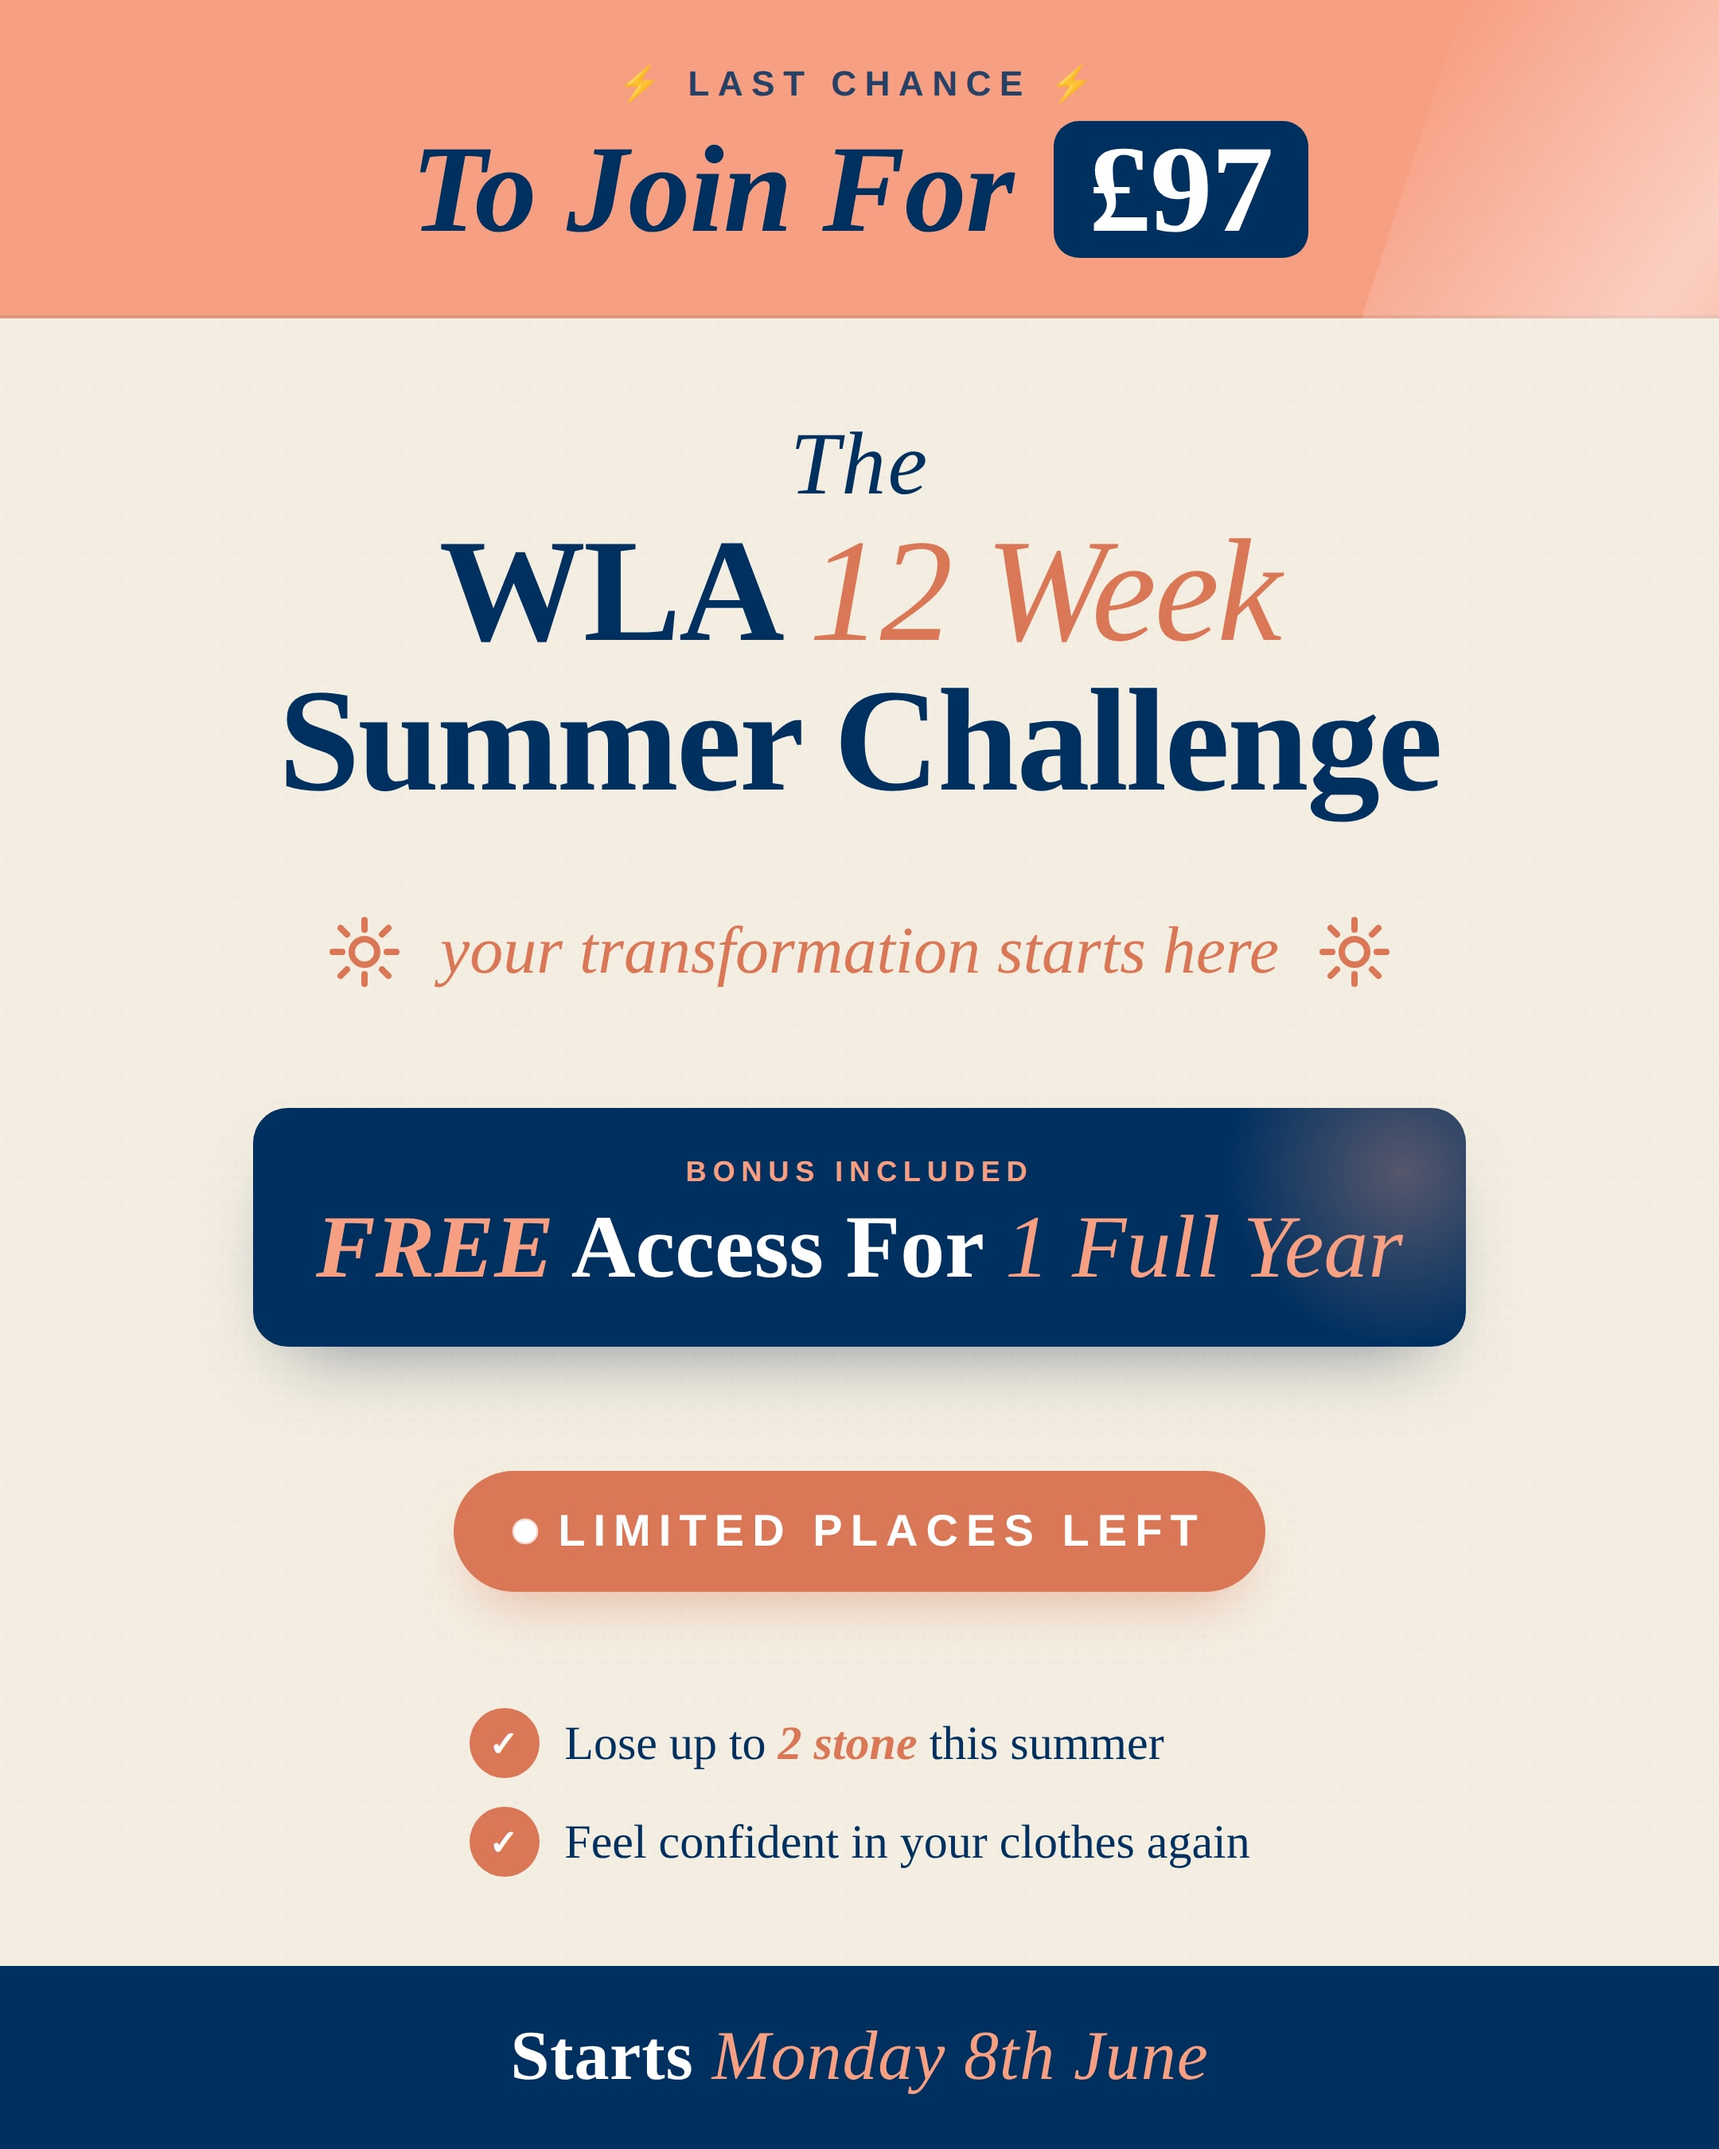
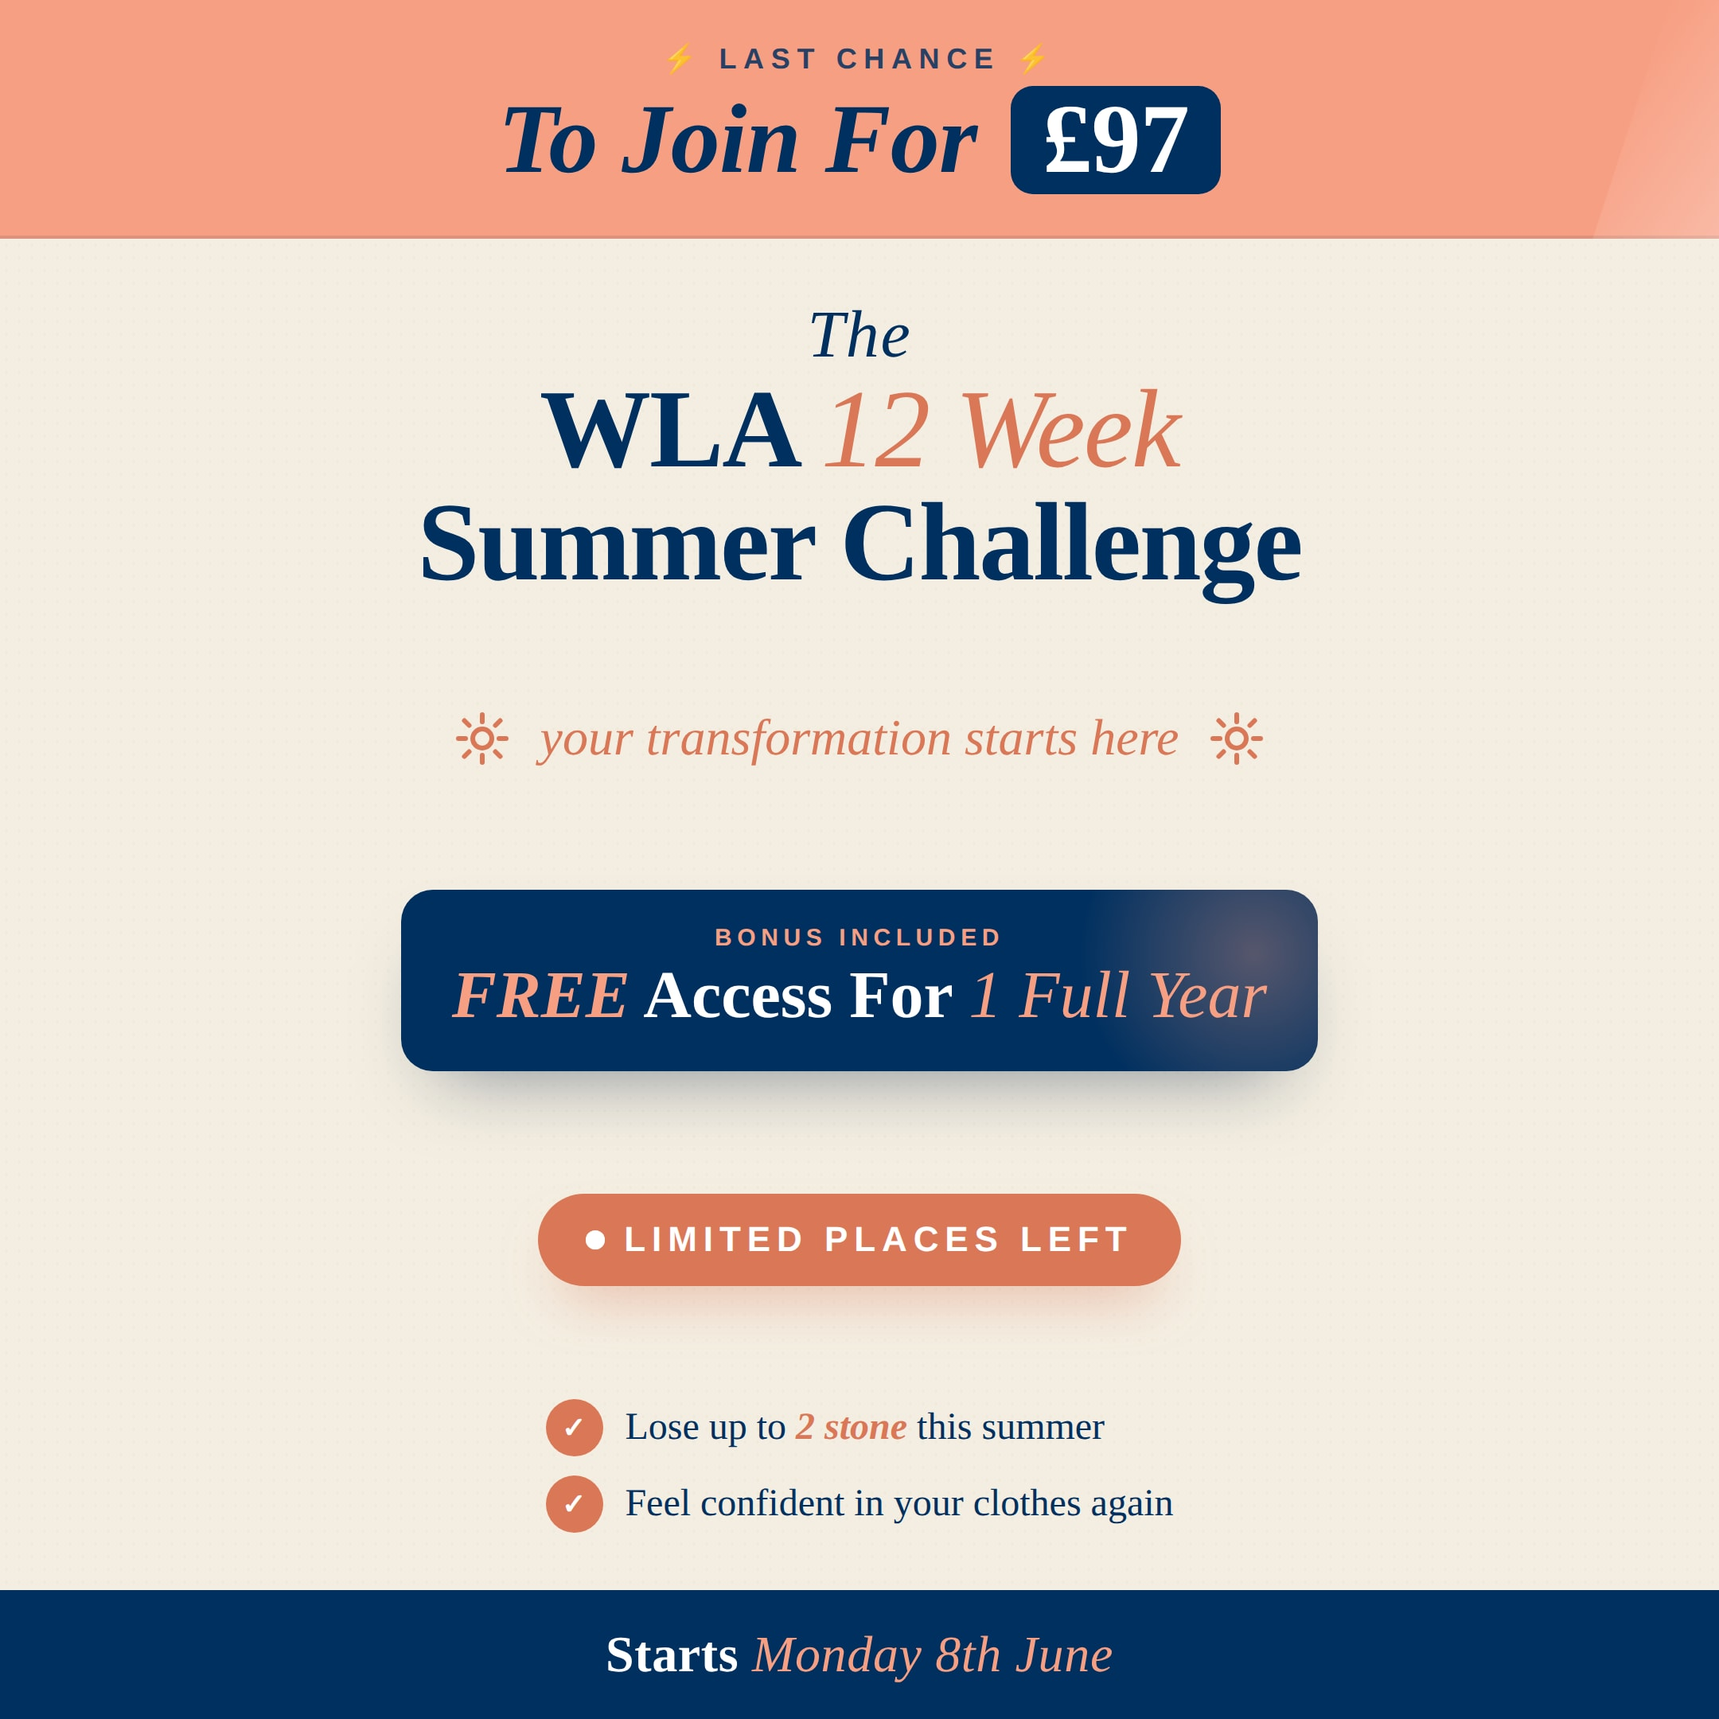
summer-challenge-ad: switch from 1080x1350 (4:5) to 1080x1080 (1:1) so it fits every Meta placement without masking; tighten all font sizes and spacing to suit the shorter canvas; re-render PNG + JPG (2160x2160 @ 2x retina)

diff --git a/summer-challenge-ad/index.html b/summer-challenge-ad/index.html
@@ -19,9 +19,9 @@
   body { display: grid; place-items: center; min-height: 100vh; padding: 24px; }
   .serif { font-family: 'Libre Baskerville', serif; }
 
-  /* 1080x1350 canvas */
+  /* 1080x1080 canvas (1:1 — safe across all FB + IG placements) */
   .ad {
-    width: 1080px; height: 1350px;
+    width: 1080px; height: 1080px;
     background: #F4EEE2;
     position: relative; overflow: hidden;
     box-shadow: 0 30px 80px rgba(0,0,0,0.5);
@@ -30,7 +30,7 @@
   }
   @media (max-width: 1140px) {
     body { padding: 12px; }
-    .ad { transform: scale(calc((100vw - 24px) / 1080)); transform-origin: top center; margin-bottom: calc((100vw - 24px) * (-1350 / 1080) + 24px); }
+    .ad { transform: scale(calc((100vw - 24px) / 1080)); transform-origin: top center; margin-bottom: calc((100vw - 24px) * (-1080 / 1080) + 24px); }
   }
 
   /* TOP URGENCY BANNER */
@@ -39,7 +39,7 @@
     background: var(--coral-salmon);
     color: var(--navy-deep);
     text-align: center;
-    padding: 40px 40px 38px;
+    padding: 26px 40px 28px;
     overflow: hidden;
     box-shadow: inset 0 -2px 0 rgba(14,39,70,0.10);
   }
@@ -60,9 +60,9 @@
     font-weight: 800;
     letter-spacing: 0.24em;
     text-transform: uppercase;
-    font-size: 22px;
+    font-size: 18px;
     color: rgba(0,48,96,0.85);
-    margin-bottom: 10px;
+    margin-bottom: 6px;
     position: relative; z-index: 1;
   }
   .urgency-banner h1 {
@@ -70,7 +70,7 @@
     font-style: italic;
     font-weight: 700;
     color: var(--navy-deep);
-    font-size: 78px;
+    font-size: 62px;
     line-height: 1.05;
     letter-spacing: -0.005em;
     margin: 0;
@@ -80,8 +80,8 @@
     font-style: normal;
     background: var(--navy-deep);
     color: #fff;
-    padding: 0 22px;
-    border-radius: 16px;
+    padding: 0 20px;
+    border-radius: 14px;
     margin-left: 6px;
     display: inline-block;
     line-height: 1.1;
@@ -91,7 +91,7 @@
   .body {
     flex: 1;
     text-align: center;
-    padding: 64px 70px 56px;
+    padding: 40px 60px 36px;
     display: flex;
     flex-direction: column;
     align-items: center;
@@ -114,12 +114,12 @@
     font-family: 'Libre Baskerville', serif;
     font-weight: 700;
     color: var(--navy-deep);
-    font-size: 92px;
+    font-size: 70px;
     line-height: 1.02;
     letter-spacing: -0.015em;
-    margin: 0 0 36px;
+    margin: 0 0 20px;
   }
-  .title .small { display: block; font-size: 56px; font-weight: 400; font-style: italic; color: var(--navy-deep); margin-bottom: 4px; letter-spacing: 0.02em; }
+  .title .small { display: block; font-size: 42px; font-weight: 400; font-style: italic; color: var(--navy-deep); margin-bottom: 2px; letter-spacing: 0.02em; }
   .title em {
     color: var(--coral);
     font-style: italic;
@@ -130,12 +130,12 @@
   .free-card {
     background: var(--navy-deep);
     color: #fff;
-    border-radius: 22px;
-    padding: 30px 40px 32px;
+    border-radius: 20px;
+    padding: 22px 32px 24px;
     box-shadow: 0 24px 48px -24px rgba(14,39,70,0.5);
     position: relative;
     overflow: hidden;
-    margin: 0 0 52px;
+    margin: 0 0 30px;
     display: inline-block;
   }
   .free-card::before {
@@ -152,13 +152,13 @@
     letter-spacing: 0.22em;
     text-transform: uppercase;
     color: var(--coral-salmon);
-    font-size: 18px;
-    margin-bottom: 8px;
+    font-size: 15px;
+    margin-bottom: 6px;
     position: relative; z-index: 1;
   }
   .free-card .free-headline {
     font-family: 'Libre Baskerville', serif;
-    font-size: 56px;
+    font-size: 42px;
     line-height: 1.05;
     font-weight: 700;
     position: relative; z-index: 1;
@@ -180,35 +180,35 @@
     display: flex;
     align-items: center;
     justify-content: center;
-    gap: 24px;
-    margin: 0 0 48px;
+    gap: 18px;
+    margin: 0 0 30px;
     color: var(--coral);
     font-family: 'Libre Baskerville', serif;
     font-style: italic;
-    font-size: 42px;
+    font-size: 32px;
     font-weight: 400;
   }
-  .sun-row svg { width: 48px; height: 48px; stroke: var(--coral); fill: none; stroke-width: 2; stroke-linecap: round; stroke-linejoin: round; }
+  .sun-row svg { width: 36px; height: 36px; stroke: var(--coral); fill: none; stroke-width: 2; stroke-linecap: round; stroke-linejoin: round; }
   .sun-row .line { width: 60px; height: 1px; background: rgba(217,119,87,0.35); }
 
   /* LIMITED PILL */
   .limited {
     display: inline-flex;
     align-items: center;
-    gap: 14px;
+    gap: 12px;
     background: var(--coral);
     color: #fff;
-    padding: 22px 38px;
+    padding: 16px 30px;
     border-radius: 999px;
     font-family: "Alegreya Sans", sans-serif;
     font-weight: 800;
     letter-spacing: 0.18em;
     text-transform: uppercase;
-    font-size: 28px;
+    font-size: 22px;
     box-shadow: 0 18px 36px -16px rgba(217,119,87,0.55);
   }
   .limited .pulse {
-    width: 14px; height: 14px;
+    width: 12px; height: 12px;
     border-radius: 50%;
     background: #fff;
     animation: pulse 1.6s infinite;
@@ -219,18 +219,18 @@
   .promises {
     list-style: none;
     padding: 0;
-    margin: 48px 0 0;
+    margin: 24px 0 0;
     display: grid;
-    gap: 18px;
+    gap: 12px;
     text-align: left;
   }
   .promises li {
     display: grid;
-    grid-template-columns: 44px 1fr;
+    grid-template-columns: 36px 1fr;
     align-items: center;
-    gap: 16px;
+    gap: 14px;
     font-family: 'Libre Baskerville', serif;
-    font-size: 30px;
+    font-size: 24px;
     line-height: 1.25;
     color: var(--navy-deep);
     font-weight: 500;
@@ -238,7 +238,7 @@
   }
   .promises li em { color: var(--coral); font-style: italic; font-weight: 700; }
   .promises .tick {
-    width: 44px; height: 44px;
+    width: 36px; height: 36px;
     border-radius: 50%;
     background: var(--coral);
     color: #fff;
@@ -246,7 +246,7 @@
     place-items: center;
     font-family: "Alegreya Sans", sans-serif;
     font-weight: 800;
-    font-size: 22px;
+    font-size: 18px;
   }
 
   /* BOTTOM BAR */
@@ -254,10 +254,10 @@
     background: var(--navy-deep);
     color: #fff;
     text-align: center;
-    padding: 32px 20px;
+    padding: 22px 20px;
     font-family: 'Libre Baskerville', serif;
     font-weight: 700;
-    font-size: 44px;
+    font-size: 32px;
     letter-spacing: 0.01em;
     line-height: 1.15;
   }
